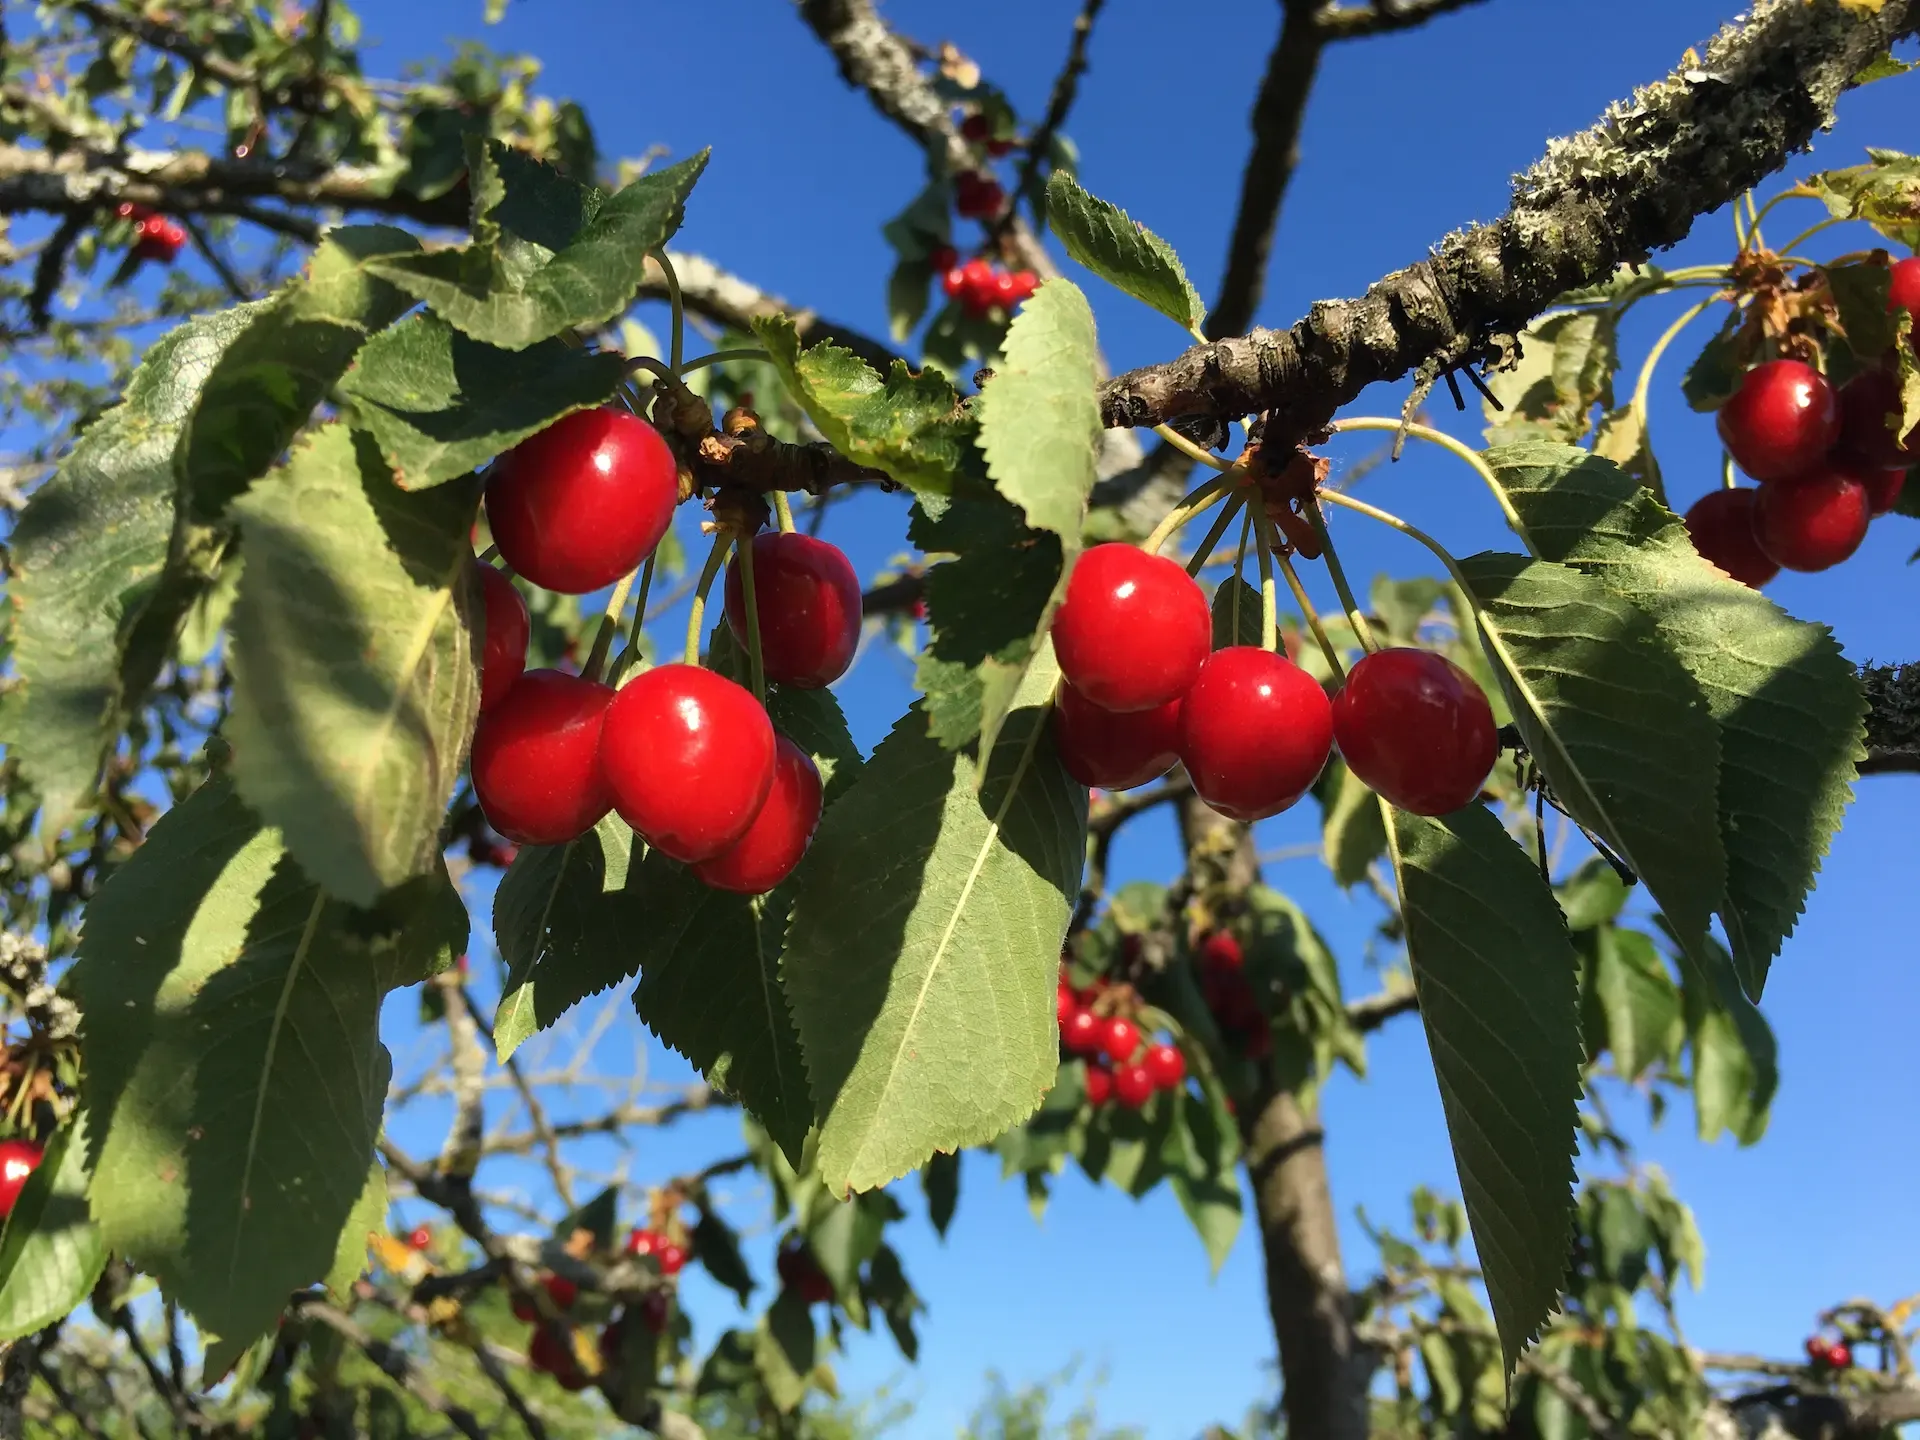
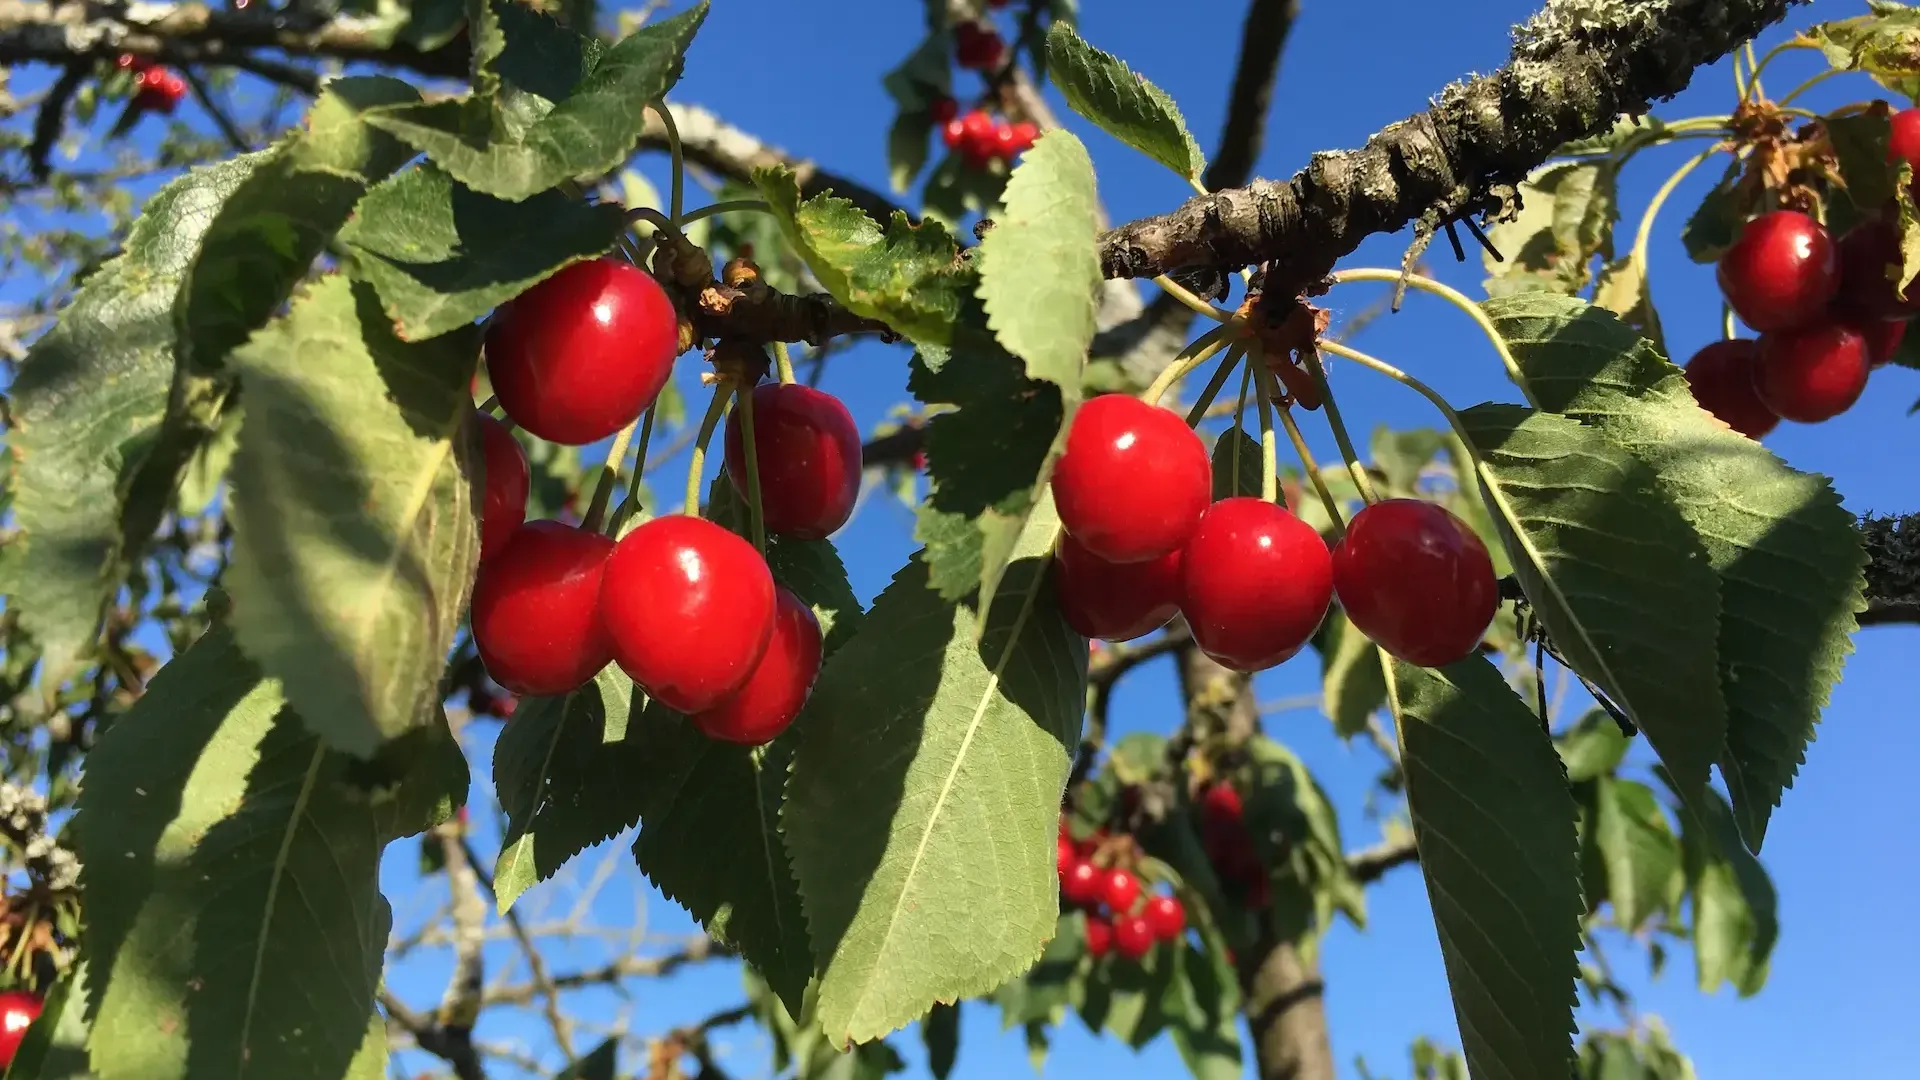
fix(fallobst): bild verhältnis

diff --git a/src/fallobst.html b/src/fallobst.html
@@ -143,7 +143,7 @@ pageCss: presse.css
         </div>
         <div class="artikel-bilder artikel-bilder--grid">
           <a href="/files/fallobst/sommer_1.webp">
-            <img src="/files/fallobst/sommer_1_1.webp" alt="" class="artikel-bild" />
+            <img src="/files/fallobst/sommer_1.webp" alt="" class="artikel-bild" />
           </a>
           <a href="/files/fallobst/sommer_2.webp">
             <img src="/files/fallobst/sommer_2.webp" alt="" class="artikel-bild" />
